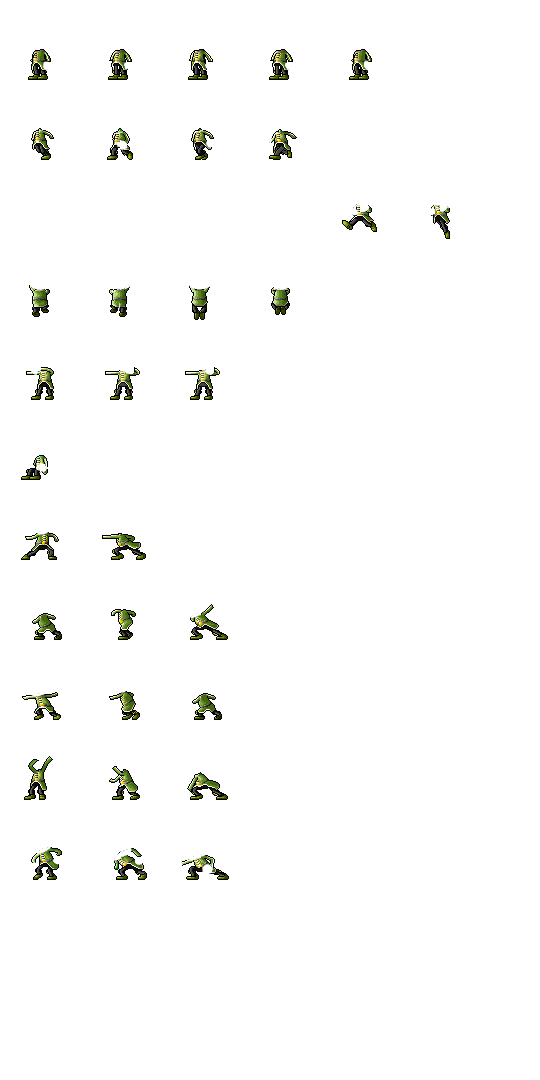
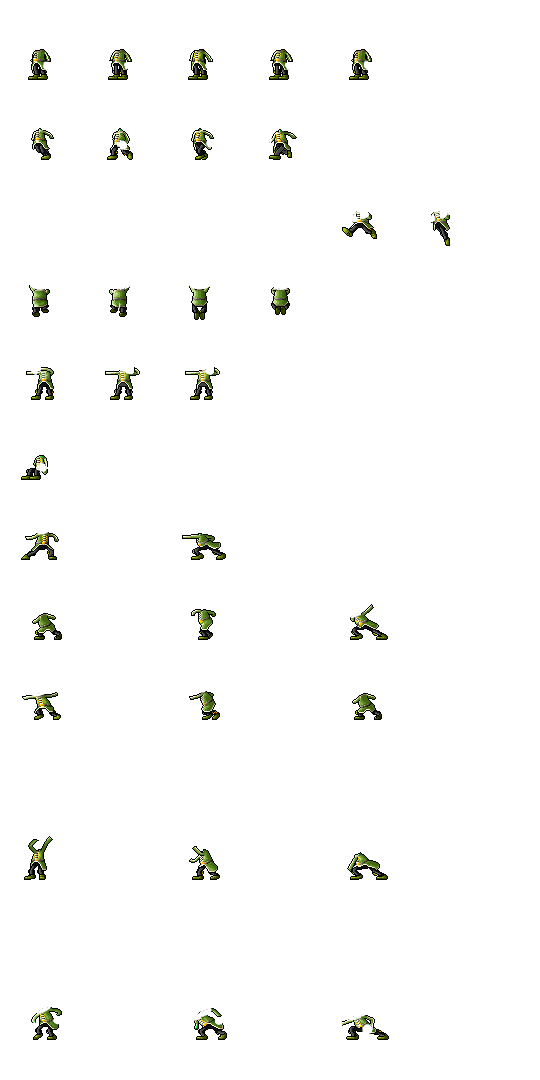
sprite update 08feb2014
update sprites, weapon types and player spriteframes

diff --git a/XNA_ScreenManager/XNA_ScreenManager/PlayerClasses/PlayerSprite.cs b/XNA_ScreenManager/XNA_ScreenManager/PlayerClasses/PlayerSprite.cs
@@ -100,6 +100,14 @@ namespace XNA_ScreenManager
             {
                 switch (state)
                 {
+                    #region state swinging
+                    case EntityState.Swing:
+                        break;
+                    #endregion
+                    #region state stabbing
+                    case EntityState.Stab:
+                        break;
+                    #endregion
                     #region state shooting
                     case EntityState.Shoot:
 
@@ -354,10 +362,16 @@ namespace XNA_ScreenManager
                             // check if bow is equiped
                             if (equipment.item_list.FindAll(delegate(Item item) { return item.itemType == ItemType.Weapon; }).Count > 0)
                             {
-                                previousGameTimeMsec = (int)gameTime.TotalGameTime.Milliseconds + (350 - playerinfo.BaseASPD * 12);
-                                previousGameTimeSec = (int)gameTime.TotalGameTime.Seconds;
-                                spriteFrame.X = 0;
-                                state = EntityState.Shoot;
+                                if (equipment.item_list.Find(delegate(Item item) { return item.itemType == ItemType.Weapon; }).itemWaponType == WeaponType.Bow)
+                                {
+                                    previousGameTimeMsec = (int)gameTime.TotalGameTime.Milliseconds + (350 - playerinfo.BaseASPD * 12);
+                                    previousGameTimeSec = (int)gameTime.TotalGameTime.Seconds;
+                                    spriteFrame.X = 0;
+                                    state = EntityState.Shoot;
+                                }
+                                else if (equipment.item_list.Find(delegate(Item item) { return item.itemType == ItemType.Weapon; }).itemWaponType == WeaponType.Dagger)
+                                {
+                                }
                             }
                         }
 
@@ -624,25 +638,42 @@ namespace XNA_ScreenManager
         {
             if (Active)
             {
+                // because in some states the hair sprite is out of bound (80x80)
+                Rectangle hairFrame = spriteFrame, 
+                          clothFrame = spriteFrame,
+                          weaponFrame = spriteFrame,
+                          faceFrame = spriteFrame,
+                          bodyFrame = spriteFrame;
+
+                if (state == EntityState.Jump || state == EntityState.Falling)
+                {
+                    hairFrame = new Rectangle(spriteFrame.X, spriteFrame.Y - 10, spriteFrame.Width, SpriteFrame.Height + 10);
+                    clothFrame = new Rectangle(spriteFrame.X, spriteFrame.Y + 10, spriteFrame.Width, SpriteFrame.Height + 10);
+                    bodyFrame = new Rectangle(spriteFrame.X, spriteFrame.Y + 10, spriteFrame.Width, SpriteFrame.Height + 10);
+                    weaponFrame = new Rectangle(spriteFrame.X, spriteFrame.Y + 10, spriteFrame.Width, SpriteFrame.Height + 10);
+                    faceFrame = new Rectangle(spriteFrame.X, spriteFrame.Y, spriteFrame.Width, SpriteFrame.Height);
+                }
+
+
                 if (playerinfo.body_sprite != null)
-                spriteBatch.Draw(Content.Load<Texture2D>(playerinfo.body_sprite), new Rectangle((int)Position.X, (int)Position.Y, spriteFrame.Width, spriteFrame.Height),
-                    spriteFrame, this.color, 0f, Vector2.Zero, spriteEffect, 0f);
+                    spriteBatch.Draw(Content.Load<Texture2D>(playerinfo.body_sprite), new Rectangle((int)Position.X, (int)(Position.Y + (bodyFrame.Height - spriteFrame.Height)), spriteFrame.Width, bodyFrame.Height),
+                    bodyFrame, this.color, 0f, Vector2.Zero, spriteEffect, 0f);
 
                 if (playerinfo.faceset_sprite != null)
                 spriteBatch.Draw(Content.Load<Texture2D>(playerinfo.faceset_sprite), new Rectangle((int)Position.X, (int)Position.Y, spriteFrame.Width, spriteFrame.Height),
-                    spriteFrame, this.color, 0f, Vector2.Zero, spriteEffect, 0f);
+                    faceFrame, this.color, 0f, Vector2.Zero, spriteEffect, 0f);
 
                 if (playerinfo.hair_sprite != null)
-                spriteBatch.Draw(Content.Load<Texture2D>(playerinfo.hair_sprite), new Rectangle((int)Position.X, (int)Position.Y, spriteFrame.Width, spriteFrame.Height),
-                    spriteFrame, this.color, 0f, Vector2.Zero, spriteEffect, 0f);
+                    spriteBatch.Draw(Content.Load<Texture2D>(playerinfo.hair_sprite), new Rectangle((int)Position.X, (int)(Position.Y - (hairFrame.Height - spriteFrame.Height)), spriteFrame.Width, hairFrame.Height),
+                    hairFrame, this.color, 0f, Vector2.Zero, spriteEffect, 0f);
 
                 if (playerinfo.costume_sprite != null)
-                spriteBatch.Draw(Content.Load<Texture2D>(playerinfo.costume_sprite), new Rectangle((int)Position.X, (int)Position.Y, spriteFrame.Width, spriteFrame.Height),
-                    spriteFrame, this.color, 0f, Vector2.Zero, spriteEffect, 0f);
+                    spriteBatch.Draw(Content.Load<Texture2D>(playerinfo.costume_sprite), new Rectangle((int)Position.X, (int)(Position.Y + (clothFrame.Height - spriteFrame.Height)), spriteFrame.Width, clothFrame.Height),
+                    clothFrame, this.color, 0f, Vector2.Zero, spriteEffect, 0f);
 
                 if (playerinfo.weapon_sprite != null)
-                spriteBatch.Draw(Content.Load<Texture2D>(playerinfo.weapon_sprite), new Rectangle((int)Position.X, (int)Position.Y, spriteFrame.Width, spriteFrame.Height),
-                    spriteFrame, this.color, 0f, Vector2.Zero, spriteEffect, 0f);
+                    spriteBatch.Draw(Content.Load<Texture2D>(playerinfo.weapon_sprite), new Rectangle((int)Position.X, (int)(Position.Y + (weaponFrame.Height - spriteFrame.Height)), spriteFrame.Width, weaponFrame.Height),
+                    weaponFrame, this.color, 0f, Vector2.Zero, spriteEffect, 0f);
             }
         }
 

diff --git a/XNA_ScreenManager/XNA_ScreenManager/ItemClasses/ItemStore.cs b/XNA_ScreenManager/XNA_ScreenManager/ItemClasses/ItemStore.cs
@@ -65,8 +65,11 @@ namespace XNA_ScreenManager.ItemClasses
 
                             // Fill in the item properties if applicable
                             item.itemDescription = Regex.Replace(values[2], "\"", "");
+                            item.itemDescription = Regex.Replace(item.itemDescription, " ", "");
                             item.itemSpritePath = @"" + Regex.Replace(values[3], "\"", "");
+                            item.itemSpritePath = Regex.Replace(item.itemSpritePath, " ", "");
                             item.equipSpritePath = @"" + Regex.Replace(values[4], "\"", "");
+                            item.equipSpritePath = Regex.Replace(item.equipSpritePath, " ", "");
                             item.SpriteFrameX = Convert.ToInt32(values[5]);
                             item.SpriteFrameY = Convert.ToInt32(values[6]);
 
@@ -78,6 +81,7 @@ namespace XNA_ScreenManager.ItemClasses
                             item.WeaponLevel = Convert.ToInt32(values[12]);
                             item.itemClass = (ItemClass)Enum.Parse(typeof(ItemClass), values[15]);
                             item.itemSlot = (ItemSlot)Enum.Parse(typeof(ItemSlot), values[16]);
+                            item.itemWaponType = (WeaponType)Enum.Parse(typeof(WeaponType), values[17]);
                         }
                     }
                     catch (Exception ee)

diff --git a/XNA_ScreenManager/XNA_ScreenManager/ScreenClasses/SubComponents/ItemlistComponent.cs b/XNA_ScreenManager/XNA_ScreenManager/ScreenClasses/SubComponents/ItemlistComponent.cs
@@ -197,7 +197,7 @@ namespace XNA_ScreenManager.ScreenClasses.SubComponents
                     new Vector2(menuPosition.X - 40, menuPosition.Y), myColor);
 
                     // Draw item Sprite
-                    Texture2D sprite = world.Content.Load<Texture2D>(menuItems.Find(delegate(Item item) { return item.itemID == menuItemsnoDupes[i].itemID; }).itemSpritePath);
+                    Texture2D sprite = world.Content.Load<Texture2D>(@"" + menuItems.Find(delegate(Item item) { return item.itemID == menuItemsnoDupes[i].itemID; }).itemSpritePath);
                     Rectangle srcframe = new Rectangle(menuItems.Find(delegate(Item item) { return item.itemID == menuItemsnoDupes[i].itemID; }).SpriteFrameX * 48,
                                                        menuItems.Find(delegate(Item item) { return item.itemID == menuItemsnoDupes[i].itemID; }).SpriteFrameY * 48,
                                                        48, 48);

diff --git a/XNA_ScreenManager/XNA_ScreenManager/ItemClasses/Item.cs b/XNA_ScreenManager/XNA_ScreenManager/ItemClasses/Item.cs
@@ -15,6 +15,20 @@ namespace XNA_ScreenManager.ItemClasses
         KeyItem
     };
 
+    public enum WeaponType
+    {
+        Dagger,
+        One_handed_Sword,
+        Two_handed_Sword,
+        One_handed_Spear,
+        Two_handed_Spear,
+        One_handed_Axe,
+        Two_handed_Axe,
+        Mace,
+        Staff,
+        Bow
+    };
+
     public enum ItemClass
     {
         Archer,
@@ -66,6 +80,7 @@ namespace XNA_ScreenManager.ItemClasses
         public ItemType itemType { get; set; }
         public ItemClass itemClass { get; set; }
         public ItemSlot itemSlot { get; set; }
+        public WeaponType itemWaponType { get; set; }
 
         public static Item create(int identifier, string name, ItemType type)
         {

diff --git a/XNA_ScreenManager/XNA_ScreenManager/GameWorldClasses/Entities/Entity.cs b/XNA_ScreenManager/XNA_ScreenManager/GameWorldClasses/Entities/Entity.cs
@@ -10,6 +10,7 @@ namespace XNA_ScreenManager.CharacterClasses
         Jump,
         Falling,
         Swing,
+        Stab,
         Shoot,
         Sit,
         Rope,
